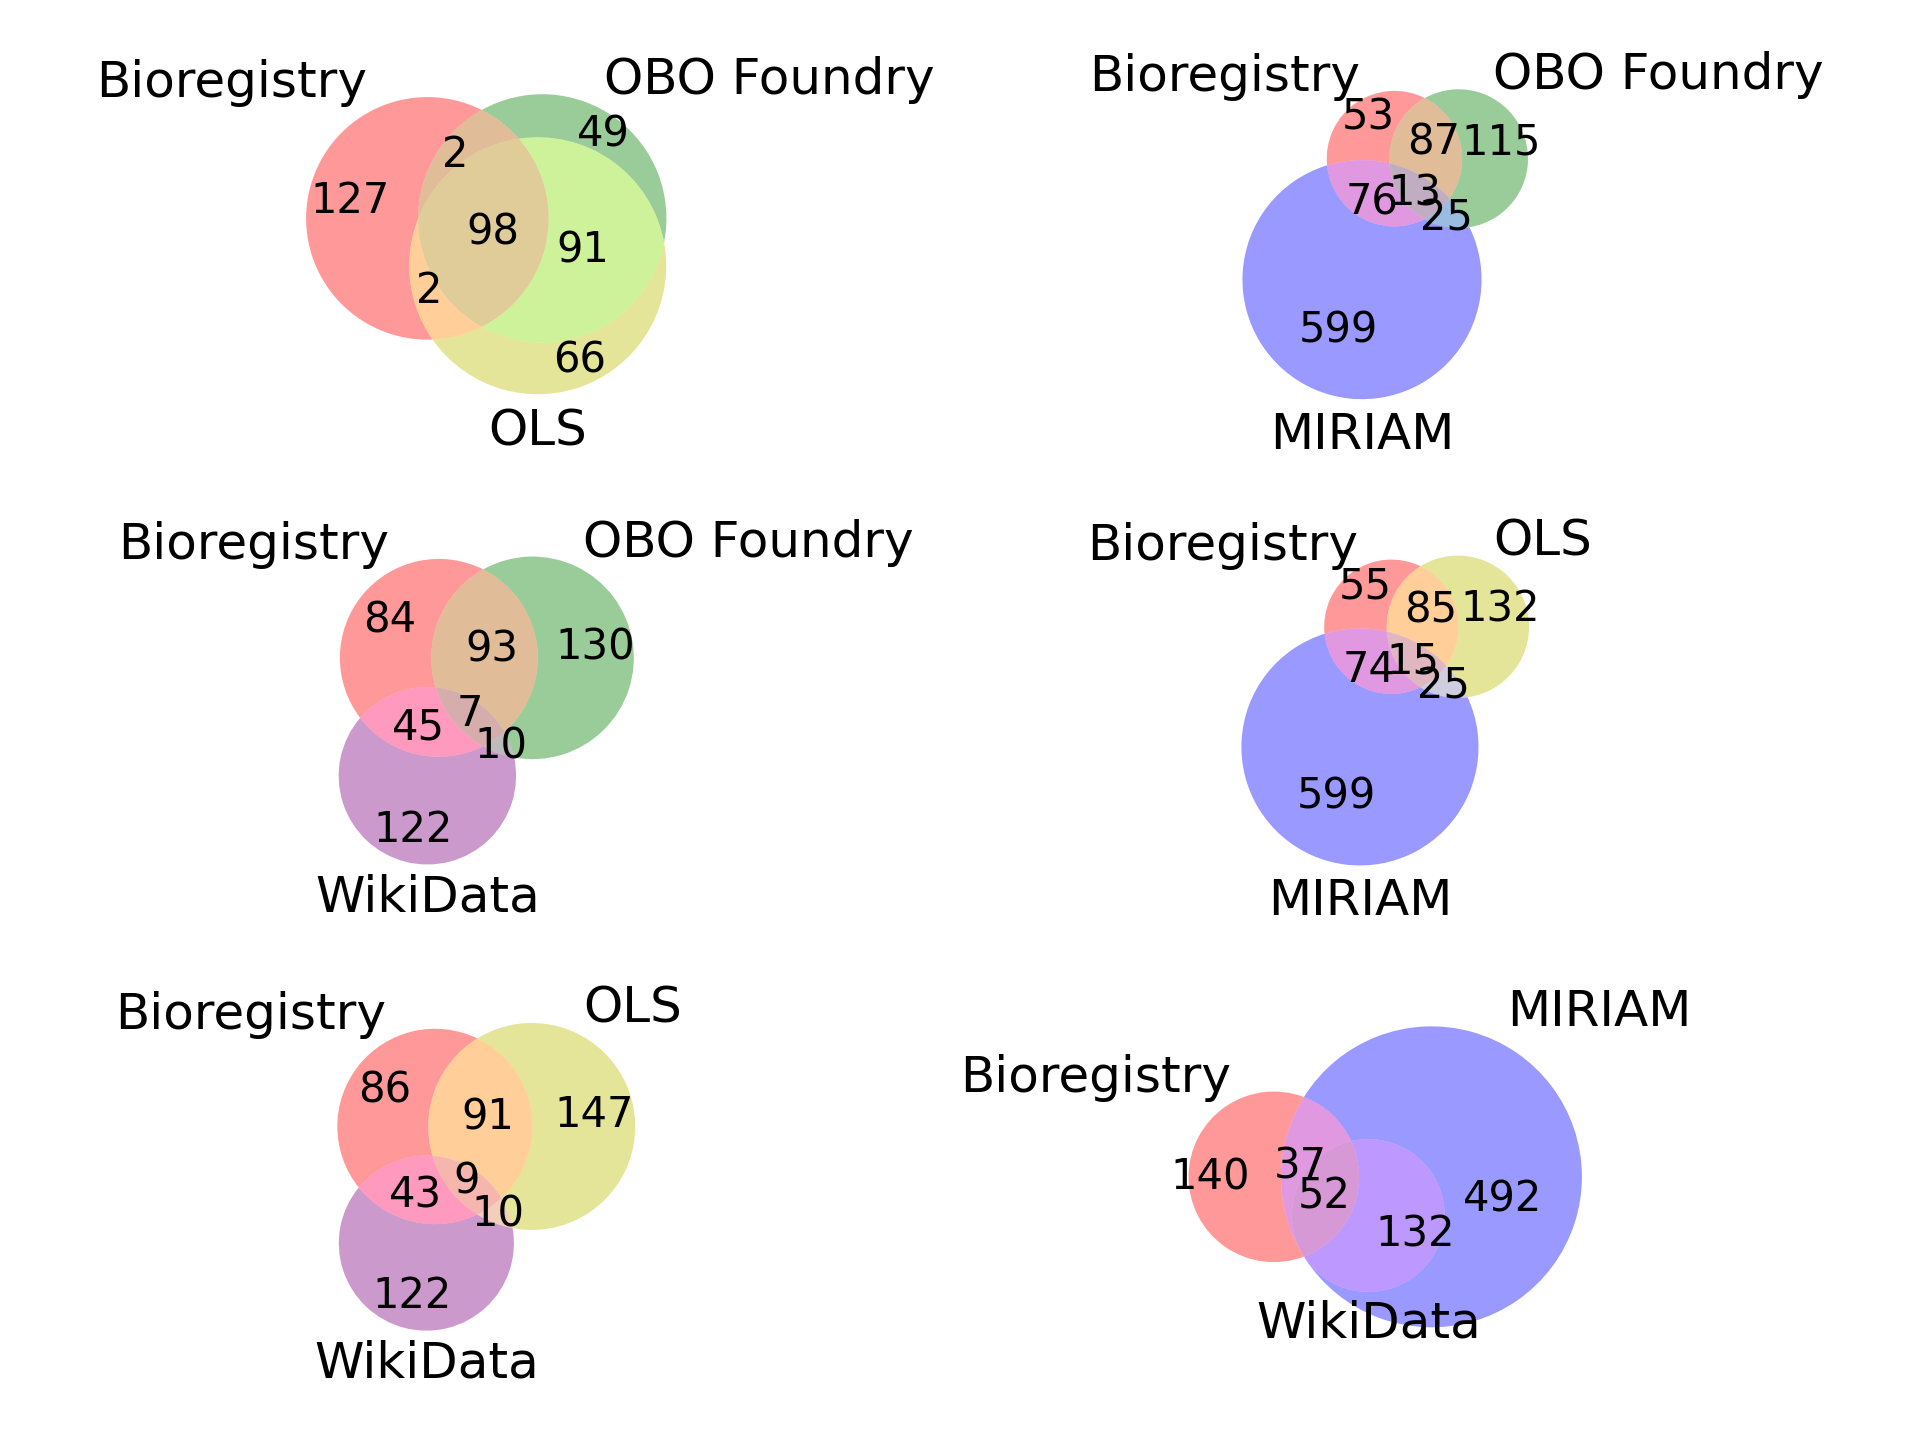
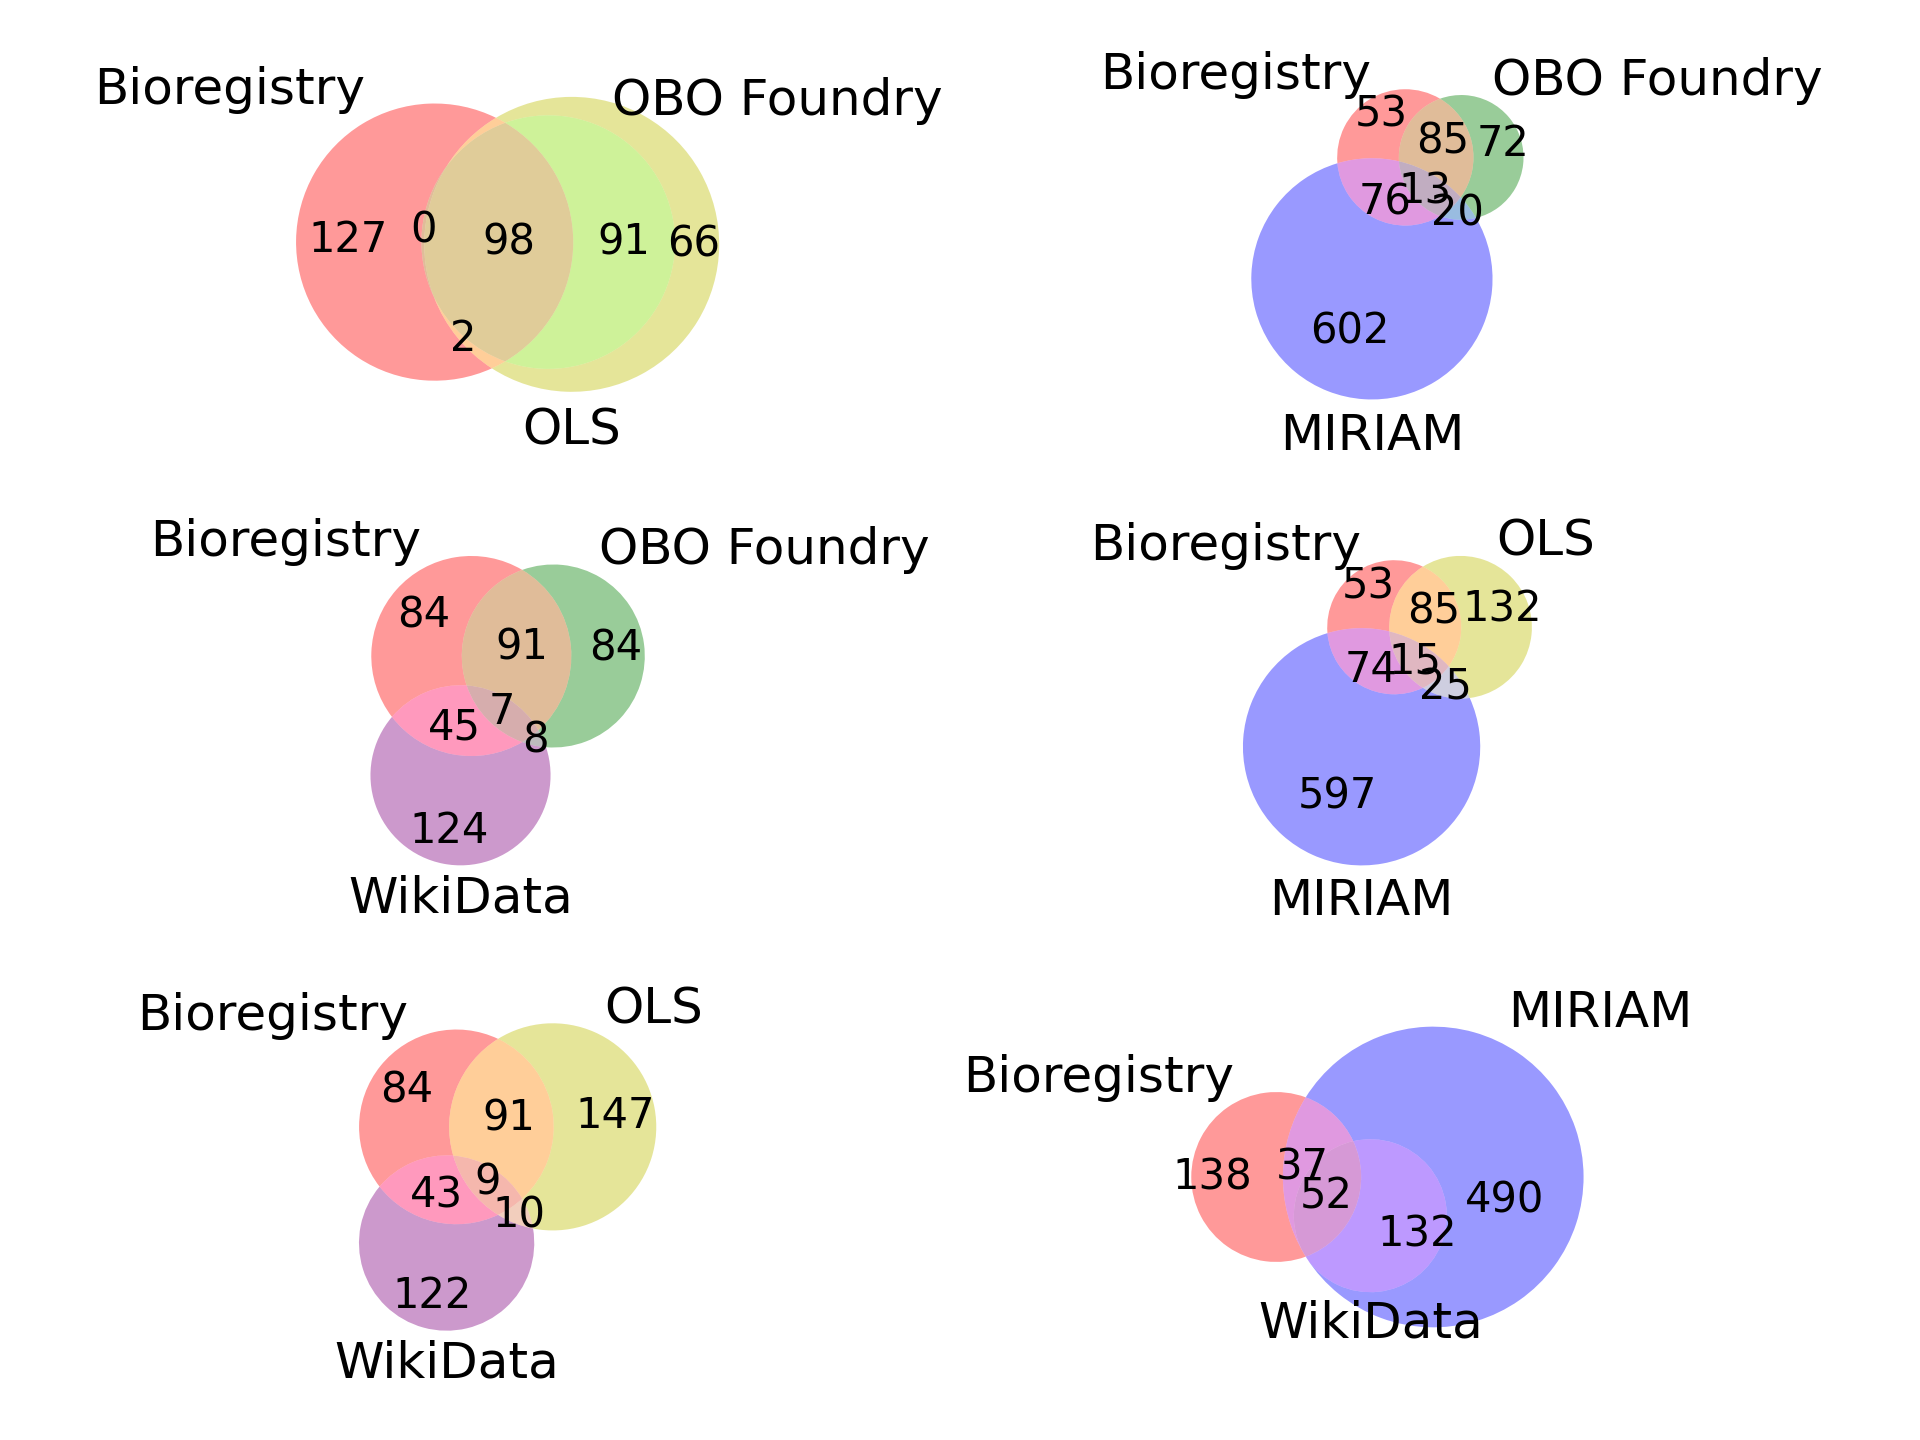
Cleanup of alignment and curation

diff --git a/src/bioregistry/external/obofoundry.py b/src/bioregistry/external/obofoundry.py
@@ -31,35 +31,39 @@ def get_obofoundry(
     cache_path: Optional[str] = OBOFOUNDRY_FULL_PATH,
     mappify: bool = False,
     force_download: bool = False,
+    skip_deprecated: bool = False,
 ):
     """Get the OBO Foundry registry."""
     if not force_download and cache_path is not None and os.path.exists(cache_path):
         with open(cache_path) as file:
-            rv = json.load(file)
-            if mappify:
-                return list_to_map(rv, 'id')
-            return rv
+            entries = json.load(file)
+    else:
+        with BIOREGISTRY_MODULE.ensure(url=OBOFOUNDRY_URL).open() as file:
+            entries = yaml.full_load(file)['ontologies']
 
-    with BIOREGISTRY_MODULE.ensure(url=OBOFOUNDRY_URL).open() as file:
-        rv = yaml.full_load(file)
+        for entry in entries:
+            for key in ('browsers', 'usages', 'depicted_by', 'products'):
+                if key in entry:
+                    del entry[key]
 
-    rv = rv['ontologies']
-    for s in rv:
-        for k in ('browsers', 'usages', 'depicted_by', 'products'):
-            if k in s:
-                del s[k]
+        # maintain sorted OBO Foundry
+        entries = sorted(entries, key=itemgetter('id'))
 
-    # maintain sorted OBO Foundry
-    rv = sorted(rv, key=itemgetter('id'))
+        if cache_path is not None:
+            with open(cache_path, 'w') as file:
+                json.dump(entries, file, indent=2)
 
-    if cache_path is not None:
-        with open(cache_path, 'w') as file:
-            json.dump(rv, file, indent=2)
+    if skip_deprecated:
+        entries = [
+            entry
+            for entry in entries
+            if not entry.get('is_obsolete', False)
+        ]
 
     if mappify:
-        rv = list_to_map(rv, 'id')
+        entries = list_to_map(entries, 'id')
 
-    return rv
+    return entries
 
 
 def get_obofoundry_df(**kwargs):

diff --git a/src/bioregistry/external/utils.py b/src/bioregistry/external/utils.py
@@ -27,20 +27,26 @@ def ensure_registry(
     cache_path: Optional[str] = None,
     mappify: bool = False,
     force_download: bool = False,
+    skip_deprecated: bool = False,
+    deprecated_key: Optional[str] = None,
 ) -> Union[List[EnsureEntry], Mapping[str, EnsureEntry]]:
     """Download the registry (works for MIRIAM and OLS) if it doesn't already exist."""
     if not force_download and cache_path is not None and os.path.exists(cache_path):
         with open(cache_path) as file:
             rv = json.load(file)
-            if mappify:
-                rv = list_to_map(rv, id_key)
-            return rv
+    else:
+        rv = _download_paginated(url, embedded_key=embedded_key)
+        rv = sorted(rv, key=itemgetter(id_key))
+        if cache_path is not None:
+            with open(cache_path, 'w') as file:
+                json.dump(rv, file, indent=2, sort_keys=True)
 
-    rv = _download_paginated(url, embedded_key=embedded_key)
-    rv = sorted(rv, key=itemgetter(id_key))
-    if cache_path is not None:
-        with open(cache_path, 'w') as file:
-            json.dump(rv, file, indent=2, sort_keys=True)
+    if skip_deprecated and deprecated_key:
+        rv = [
+            entry
+            for entry in rv
+            if not entry.get(deprecated_key, False)
+        ]
 
     if mappify:
         rv = list_to_map(rv, id_key)
@@ -48,9 +54,9 @@ def ensure_registry(
     return rv
 
 
-def list_to_map(j, k):
+def list_to_map(entries, key):
     """Turn a list into a map."""
-    return {entry[k]: entry for entry in j}
+    return {entry[key]: entry for entry in entries}
 
 
 def _download_paginated(start_url: str, embedded_key: str) -> List[EnsureEntry]:

diff --git a/src/bioregistry/compare.py b/src/bioregistry/compare.py
@@ -20,7 +20,7 @@ def compare():
     bioregistry = read_bioregistry()
     bioregistry_entries = set(bioregistry)
 
-    miriam = get_miriam()
+    miriam = get_miriam(skip_deprecated=True)
     miriam_entries = {
         entry['prefix'].lower()
         for entry in miriam
@@ -32,7 +32,7 @@ def compare():
         for entry in ols
     }
 
-    obofoundry = get_obofoundry()
+    obofoundry = get_obofoundry(skip_deprecated=True)
     obofoundry_entries = {
         entry['id'].lower()
         for entry in obofoundry

diff --git a/src/bioregistry/external/miriam.py b/src/bioregistry/external/miriam.py
@@ -26,6 +26,7 @@ def get_miriam(
     cache_path: Optional[str] = MIRIAM_FULL_PATH,
     mappify: bool = False,
     force_download: bool = False,
+    skip_deprecated: bool = False,
 ):
     """Get the MIRIAM registry."""
     return ensure_registry(
@@ -35,6 +36,8 @@ def get_miriam(
         id_key='prefix',
         mappify=mappify,
         force_download=force_download,
+        deprecated_key='deprecated',
+        skip_deprecated=skip_deprecated,
     )
 
 
